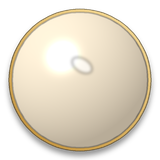
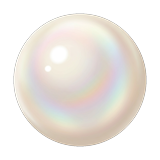
board: take the case off, and ship the painted stones
Two things the device screenshot asked for.

No frame. The painted case round the board read as a picture frame and cost 30 dp of playfield on every
side, so it is gone and the board is 330 dp again at (366, 60) — nine 36 dp cells, the tray is the whole
board. ui_board_frame.png and its importer entry are removed; the tray goes back to shipping at 2x of
330.

The stones are the painted ones now, exactly the set the user picked: cushion turquoise, hexagon lapis,
carnelian drop, emerald cut, pearl. tools/import_gem_art.py keys each painted plate off its black field
(flood the field from the corners of a *binarised* copy, so a specular inside the stone can never be
mistaken for background — keying on brightness punched a hole through the pearl), feathers the cut,
matches the five by area rather than by longest side, and centres each on a 160 px plate. The painted
plates are committed under assets/gems/source/ with a .gdignore; make_gem_art.py stays as the fallback
and says so.

Also: clearing the hint used to leave an empty card sitting in the middle of the HUD (visible in the
screenshot). It now falls back to the default sentence.

diff --git a/godot-port/tools/import_plate_art.py b/godot-port/tools/import_plate_art.py
@@ -1,14 +1,14 @@
 #!/usr/bin/env python3
-"""Grade the two painted plates the board sits in, and write the files the game ships.
+"""Grade the painted plates the board sits on, and write the files the game ships.
 
-Everything else on the board screen is a picture already; the tray and the case around it were the last
-two surfaces drawn by code. They are painted once by an image model and graded here:
+Everything else on the board screen is a picture already; the tray and the two cards were the last
+surfaces drawn by code. They are painted once by an image model and graded here:
 
-  ui_board_frame   the carved case, drawn *behind* the tray: stretched 1:1 (no nine-slice, because it is
-                   always drawn square), so its corner bosses stay round.
-  ui_board_tray    the velvet the stones lie on. Only the centre of the painted tray is kept: the ornate
-                   band of that plate is the case, and if it stayed in the tray the eight-one cells would
-                   sit on top of it.
+  ui_board_tray    the velvet the stones lie on. Only the centre of the painted tray is kept — its
+                   painted moulding is not shipped: the case that used to ring the board read as a
+                   picture frame, so the tray is the board now.
+  ui_card_frame    the wide plaque on the home screen.
+  ui_card_tall     the portrait plaque on the districts screen.
 
 The ungraded paintings live in `assets/ui/source/` (committed, with a .gdignore so the export does not
 ship them twice), so this script reproduces both PNGs exactly.
@@ -27,12 +27,8 @@ HERE = os.path.dirname(os.path.dirname(os.path.abspath(__file__)))
 SOURCE = os.path.join(HERE, "assets", "ui", "source")
 OUT = os.path.join(HERE, "assets", "ui")
 
-# Draw sizes in the port: the tray is 306 dp and the case 366 dp, so the plates ship at twice that.
-TRAY_SIZE = 612
-FRAME_SIZE = 732
-# The painted case has a band of empty background around its moulding. Left in, it eats most of the
-# 30 dp ring the board has for it and covers the header — so it is trimmed off before the resize.
-FRAME_TRIM = 0.035
+# The tray is drawn at 330 dp, so the plate ships at twice that.
+TRAY_SIZE = 660
 
 # The two card plaques are authored at exactly the size the screens draw them (330x126 and 232x286) and
 # stretched whole, because a card is a fixed size: nine-slicing a painted moulding at 40 dp corners
@@ -44,7 +40,7 @@ CARDS = {
     "ui_card_tall.png": ("card_tall", (464, 572)),
 }
 
-# How much of the painted tray is velvet: the rest is the moulding, which becomes the case instead.
+# How much of the painted tray is velvet: the painted moulding is not shipped.
 TRAY_KEEP = 0.60
 
 
@@ -75,21 +71,6 @@ def build_tray() -> Image.Image:
     return _grain(tray, 3.0, 11)
 
 
-def build_frame() -> Image.Image:
-    source = _load("frame")
-    width, height = source.size
-    trim_x = int(width * FRAME_TRIM)
-    trim_y = int(height * FRAME_TRIM)
-    source = source.crop((trim_x, trim_y, width - trim_x, height - trim_y))
-    frame = source.resize((FRAME_SIZE, FRAME_SIZE), Image.LANCZOS)
-    frame = frame.filter(ImageFilter.UnsharpMask(radius=2.2, percent=62, threshold=2))
-    # Brighten slightly: this is the gold in the room, and the hall behind it is dark.
-    pixels = np.asarray(frame).astype(np.float32)
-    pixels = np.clip(pixels * 1.06 + 4.0, 0, 255)
-    frame = Image.fromarray(pixels.astype(np.uint8), "RGB")
-    return _grain(frame, 2.5, 23)
-
-
 def build_card(source_name: str, size: tuple) -> Image.Image:
     source = _load(source_name)
     width, height = source.size
@@ -105,7 +86,7 @@ def build_card(source_name: str, size: tuple) -> Image.Image:
 
 
 def main() -> None:
-    plates = [("ui_board_tray.png", build_tray()), ("ui_board_frame.png", build_frame())]
+    plates = [("ui_board_tray.png", build_tray())]
     for name, (source_name, size) in CARDS.items():
         plates.append((name, build_card(source_name, size)))
     for name, picture in plates:

diff --git a/godot-port/tools/import_gem_art.py b/godot-port/tools/import_gem_art.py
@@ -1,0 +1,87 @@
+#!/usr/bin/env python3
+"""Cut the painted stones out of their plates and write the five pieces the game ships.
+
+The five stones are painted once each by an image model, on a pure black field so the field can be
+keyed away. This script does the keying, the centring and the sizing:
+
+  1. flood fill from the four corners over everything near-black — that is the field, and only the
+     field: a stone's own dark facets are not connected to the edge, so they survive
+  2. feather the cut by a pixel, so a stone does not carry a black halo onto the board
+  3. crop to the stone, scale it to a common size and centre it on a square plate
+
+Every piece ends up the same visual weight as the others, which is what a match-three board needs: the
+player reads shape and colour, never size.
+
+The ungraded plates live in `assets/gems/source/` (committed, with a .gdignore), so this reproduces the
+five shipped PNGs exactly.
+
+Run: python3 godot-port/tools/import_gem_art.py
+"""
+
+from __future__ import annotations
+
+import os
+
+import numpy as np
+from PIL import Image, ImageDraw, ImageFilter
+
+HERE = os.path.dirname(os.path.dirname(os.path.abspath(__file__)))
+SOURCE = os.path.join(HERE, "assets", "gems", "source")
+OUT = os.path.join(HERE, "assets", "gems")
+
+SIZE = 160          # the plate every screen scales from
+STONE_BOX = 150     # how much of the plate the stone fills
+KEY_TOLERANCE = 26  # how near-black the field has to be to get filled
+
+
+def _keyed(path: str) -> Image.Image:
+    plate = Image.open(path).convert("RGB")
+    # Flood the field from all four corners; anything connected to the edge and near-black becomes 0.
+    # Binarise first: flood fill only spreads through pixels that are *exactly* the value it started
+    # with, so a bright specular inside the stone can never be mistaken for field. (Keying on the
+    # brightness afterwards punched a black hole through the pearl's highlight.)
+    grey = plate.convert("L")
+    binary = grey.point(lambda value: 0 if value <= KEY_TOLERANCE else 255)
+    for seed in ((0, 0), (plate.width - 1, 0), (0, plate.height - 1),
+                 (plate.width - 1, plate.height - 1)):
+        ImageDraw.floodfill(binary, seed, 128, thresh=0)
+    # 128 marks the field the fill reached; everything else is stone.
+    stone = np.where(np.asarray(binary) == 128, 0, 255).astype(np.uint8)
+
+    alpha = Image.fromarray(stone, "L").filter(ImageFilter.GaussianBlur(0.9))
+    cut = plate.convert("RGBA")
+    cut.putalpha(alpha)
+    return cut
+
+
+def _centred(cut: Image.Image) -> Image.Image:
+    box = cut.getbbox()
+    if box is None:
+        return cut
+    stone = cut.crop(box)
+    # Match the pieces by area, not by the longest side: a tall emerald cut and a square cushion with
+    # the same width do not look like the same size of stone.
+    alpha = np.asarray(stone.getchannel("A")).astype(np.float32) / 255.0
+    area = float(alpha.sum())
+    target = (STONE_BOX ** 2) * 0.62
+    scale = (target / area) ** 0.5 if area > 1.0 else 1.0
+    scale = min(scale, STONE_BOX / max(stone.width, stone.height))
+    stone = stone.resize((max(1, int(stone.width * scale + 0.5)),
+                          max(1, int(stone.height * scale + 0.5))), Image.LANCZOS)
+    plate = Image.new("RGBA", (SIZE, SIZE), (0, 0, 0, 0))
+    plate.paste(stone, ((SIZE - stone.width) // 2, (SIZE - stone.height) // 2), stone)
+    return plate
+
+
+def main() -> None:
+    for name in ("firouzeh", "lajvard", "aqiq", "zomorrod", "morvarid"):
+        source = os.path.join(SOURCE, name + ".png")
+        piece = _centred(_keyed(source))
+        path = os.path.join(OUT, "piece_%s.png" % name)
+        piece.save(path, optimize=True)
+        print("piece_%-10s %dx%d  %5.1f kB" % (name, piece.width, piece.height,
+                                               os.path.getsize(path) / 1024.0))
+
+
+if __name__ == "__main__":
+    main()

diff --git a/godot-port/tools/make_gem_art.py b/godot-port/tools/make_gem_art.py
@@ -20,6 +20,11 @@ clean at 36 dp, which is the size a phone actually shows them at.
     python3 godot-port/tools/make_gem_art.py
 """
 
+NOTE: the shipped pieces are painted — see tools/import_gem_art.py and assets/gems/source/.
+This generator stays as the fallback and as the record of the geometry (silhouettes, settings
+and the light rig); running it overwrites the painted PNGs, so run it deliberately.
+
+
 from __future__ import annotations
 
 import math
